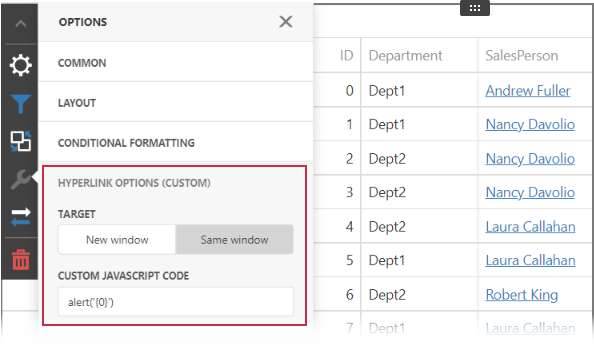
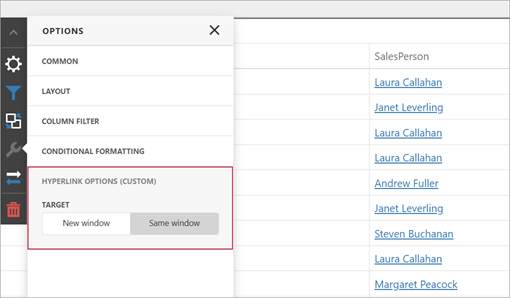
Update example
* update example

* Created a new file CODEOWNERS  [skip ci]

* README auto update [skip ci]

* update

---------

diff --git a/CS/GridHyperlinkOptionsExtension.js b/CS/GridHyperlinkOptionsExtension.js
@@ -10,15 +10,7 @@
         valueType: 'string'
     };
 
-    var CustomJSProperty = {
-        ownerType: Model.GridItem,
-        propertyName: 'CustomJS',
-        defaultValue: '',
-        valueType: 'string'
-    };
-
     Model.registerCustomProperty(TargetProperty);
-    Model.registerCustomProperty(CustomJSProperty);
 
     // 2. Viewer
     function onItemWidgetOptionsPrepared(args) {
@@ -26,13 +18,6 @@
             args.options.onCellPrepared = function (e) {
                 if (e.column.displayMode == 'Hyperlink' && e.rowType == 'data') {
                     var a = e.cellElement.find('a');
-                    var customJS = args.dashboardItem.customProperties.getValue(CustomJSProperty.propertyName);
-
-                    if (customJS) {
-                        var uriKey = Object.keys(e.data).filter(key => key.indexOf(e.column.dataField + '_') == 0);
-                        a.attr('href', 'javascript:' + customJS.replace('{0}', e.data[uriKey]));
-                    }
-
                     a.attr('target', args.dashboardItem.customProperties.getValue(TargetProperty.propertyName));
                 }
             };
@@ -61,16 +46,6 @@
                                 value: "_self",
                                 text: "Same window"
                             }]
-                        }
-                    },
-                    {
-                        dataField: CustomJSProperty.propertyName,
-                        editorType: "dxTextBox",
-                        label: {
-                            text: "Custom JavaScript Code"
-                        },
-                        editorOptions: {
-                            placeholder: "alert('{0}')"
                         }
                     }
                 ]

diff --git a/README.md b/README.md
@@ -1,21 +1,19 @@
 <!-- default badges list -->
-![](https://img.shields.io/endpoint?url=https://codecentral.devexpress.com/api/v1/VersionRange/434593648/22.1.10%2B)
 [![](https://img.shields.io/badge/Open_in_DevExpress_Support_Center-FF7200?style=flat-square&logo=DevExpress&logoColor=white)](https://supportcenter.devexpress.com/ticket/details/T1049972)
 [![](https://img.shields.io/badge/📖_How_to_use_DevExpress_Examples-e9f6fc?style=flat-square)](https://docs.devexpress.com/GeneralInformation/403183)
 [![](https://img.shields.io/badge/💬_Leave_Feedback-feecdd?style=flat-square)](#does-this-example-address-your-development-requirementsobjectives)
 <!-- default badges end -->
 # BI Dashboard for Web Forms - How to Implement Additional Options for the Grid's Hyperlink Column
 
-This example shows how to use [Custom Properties](https://docs.devexpress.com/Dashboard/401702/web-dashboard/ui-elements-and-customization/create-custom-properties) to adjust the [Hyperlink Column](https://docs.devexpress.com/Dashboard/119499/web-dashboard/create-dashboards-on-the-web/dashboard-item-settings/grid/columns/hyperlink-column)'s capabilities for the [Grid](https://docs.devexpress.com/Dashboard/117161/web-dashboard/create-dashboards-on-the-web/dashboard-item-settings/grid) item. The following options are implemented:
+This example implements a [Custom Property](https://docs.devexpress.com/Dashboard/401702/web-dashboard/ui-elements-and-customization/create-custom-properties) to adjust the [Hyperlink Column](https://docs.devexpress.com/Dashboard/119499/web-dashboard/create-dashboards-on-the-web/dashboard-item-settings/grid/columns/hyperlink-column)'s capabilities for the [Grid](https://docs.devexpress.com/Dashboard/117161/web-dashboard/create-dashboards-on-the-web/dashboard-item-settings/grid) item. The following option is implemented:
 
 * **Target** - Specifies whether the link is opened in a new window or tab.
-* **Custom JavaScript Code** - Specifies JavaScript code which is executed when a user clicks the hyperlink. The `{0}` placeholder returns the value of the field specified in the hyperlink's URI.
 
 In addition, the [Calculated Field](https://docs.devexpress.com/Dashboard/117196/web-dashboard/create-dashboards-on-the-web/providing-data/calculated-fields) is used in the hyperlink column configuration to pass multiple URL arguments.
 
 The resulting options look as follows:
 
-![](images/screenshot.png)
+![Web Dashboard - Custom Property for Hyperlink Column](images/screenshot.png)
 
 <!-- default file list -->
 ## Files to Review
